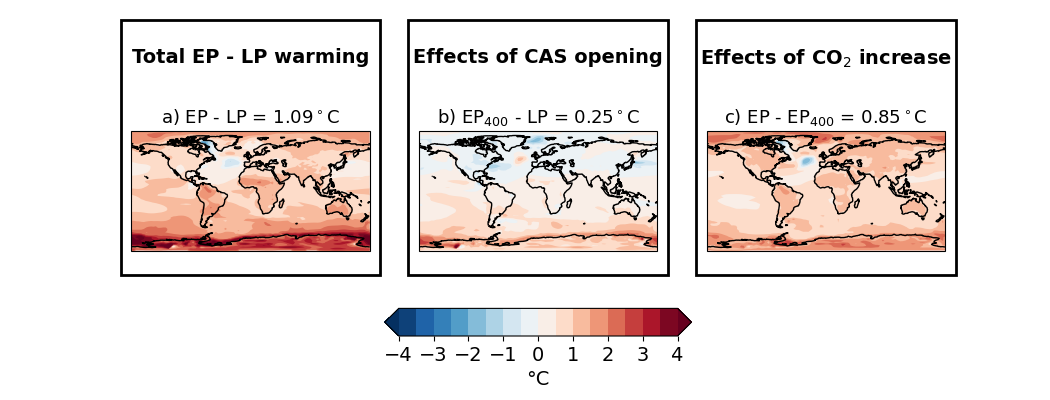
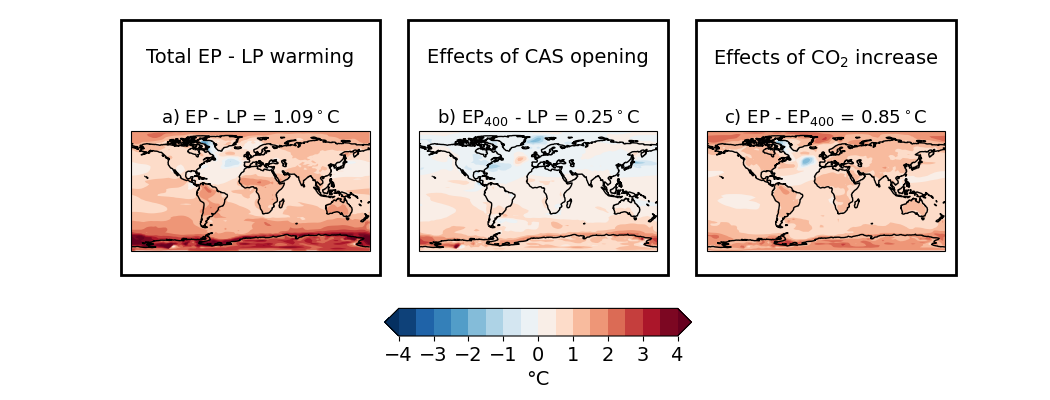
EP figure changes

Changed region(s): [[0.6705, 0.12, 0.9143, 0.18], [0.3962, 0.12, 0.64, 0.18], [0.1219, 0.12, 0.3657, 0.18]]

diff --git a/PLIOMIP3/paper_EP_plots/allplots_figure1.py b/PLIOMIP3/paper_EP_plots/allplots_figure1.py
@@ -131,7 +131,7 @@ plt.gca().coastlines()
 # EP400 - LP
 ax4=fig.add_subplot(spec[12],projection=ccrs.PlateCarree())
 
-cs=iplt.contourf(EP_LP_cube,cmap='RdBu_r',levels=vals,extend='both')
+cs=iplt.contourf(EP400_LP_cube,cmap='RdBu_r',levels=vals,extend='both')
 
 titlename = 'd) EP$_{400}$ - LP = ' + f'{EP400_LP_mean.data:.2f}' + '$^\circ$C'
 ax4.set_title(titlename,fontsize=13)
@@ -161,7 +161,7 @@ cbar.set_label('°C',fontsize=14)
 axt = fig.add_subplot(spec[2])
 axt.set_axis_off()
 axt.text(0.5, 1.0,'Effects of CAS opening',fontsize=14,va='top',
-           fontweight='bold',ha='center')
+           ha='center')
 
 positions = [ax1.get_position(),ax4.get_position(),axt.get_position()]
 
@@ -189,7 +189,8 @@ fig.add_artist(rect)
 axt3 = fig.add_subplot(spec[0])
 axt3.set_axis_off()
 axt3.text(0.5, 1.0,'Total EP - LP warming',fontsize=14,va='top',
-          fontweight='bold',ha='center')
+          #fontweight='bold',
+          ha='center')
 positions = [ax0.get_position(),axt3.get_position()]
 
 left   = min(p.x0 for p in positions)
@@ -214,7 +215,8 @@ fig.add_artist(rect)
 axt2 = fig.add_subplot(spec[4])
 axt2.set_axis_off()
 axt2.text(0.5, 1.0,'Effects of CO$_2$ increase',fontsize=14,va='top',
-           fontweight='bold',ha='center')
+          # fontweight='bold',
+          ha='center')
 positions = [ax2.get_position(),ax5.get_position(),axt2.get_position()]
 
 left   = min(p.x0 for p in positions)

diff --git a/PLIOMIP3/paper_EP_plots/allplots_supp_forcing_fact.py b/PLIOMIP3/paper_EP_plots/allplots_supp_forcing_fact.py
@@ -120,7 +120,8 @@ cbar.set_label('°C',fontsize=14)
 axt = fig.add_subplot(spec[2])
 axt.set_axis_off()
 axt.text(0.5, 1.0,'Effects of CAS opening',fontsize=14,va='top',
-           fontweight='bold',ha='center')
+         #  fontweight='bold',
+         ha='center')
 
 positions = [ax1.get_position(),axt.get_position()]
 
@@ -148,7 +149,8 @@ fig.add_artist(rect)
 axt3 = fig.add_subplot(spec[0])
 axt3.set_axis_off()
 axt3.text(0.5, 1.0,'Total EP - LP warming',fontsize=14,va='top',
-          fontweight='bold',ha='center')
+          #fontweight='bold',
+          ha='center')
 positions = [ax0.get_position(),axt3.get_position()]
 
 left   = min(p.x0 for p in positions)
@@ -173,7 +175,8 @@ fig.add_artist(rect)
 axt2 = fig.add_subplot(spec[4])
 axt2.set_axis_off()
 axt2.text(0.5, 1.0,'Effects of CO$_2$ increase',fontsize=14,va='top',
-           fontweight='bold',ha='center')
+          # fontweight='bold',
+          ha='center')
 positions = [ax2.get_position(),axt2.get_position()]
 
 left   = min(p.x0 for p in positions)
